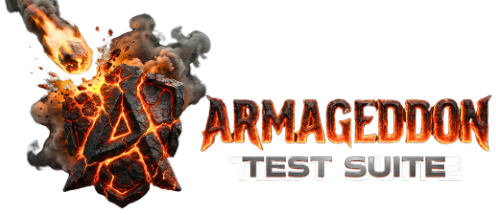
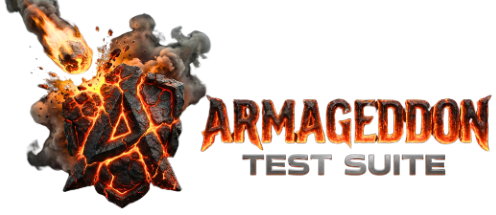
feat(ui): finalize branding with official wordmark and optimize AuthControl accessibility

Changed region(s): [[0.4839, 0.6977, 0.9073, 0.8651]]

diff --git a/armageddon-site/public/sw.js b/armageddon-site/public/sw.js
@@ -1,1 +1,1 @@
-if(!self.define){let e,s={};const n=(n,i)=>(n=new URL(n+".js",i).href,s[n]||new Promise(s=>{if("document"in self){const e=document.createElement("script");e.src=n,e.onload=s,document.head.appendChild(e)}else e=n,importScripts(n),s()}).then(()=>{let e=s[n];if(!e)throw new Error(`Module ${n} didn’t register its module`);return e}));self.define=(i,a)=>{const c=e||("document"in self?document.currentScript.src:"")||location.href;if(s[c])return;let t={};const r=e=>n(e,c),o={module:{uri:c},exports:t,require:r};s[c]=Promise.all(i.map(e=>o[e]||r(e))).then(e=>(a(...e),t))}}define(["./workbox-f1770938"],function(e){"use strict";importScripts(),self.skipWaiting(),e.clientsClaim(),e.precacheAndRoute([{url:"/_next/static/chunks/468-1093ee68c804e9a2.js",revision:"iIPbDOxHYnkIkARJOjg1s"},{url:"/_next/static/chunks/607-af260525c14c94bb.js",revision:"iIPbDOxHYnkIkARJOjg1s"},{url:"/_next/static/chunks/79-bf20568888924bf1.js",revision:"iIPbDOxHYnkIkARJOjg1s"},{url:"/_next/static/chunks/802-c239888456027ff5.js",revision:"iIPbDOxHYnkIkARJOjg1s"},{url:"/_next/static/chunks/app/_not-found-9ae73e608a28f3b2.js",revision:"iIPbDOxHYnkIkARJOjg1s"},{url:"/_next/static/chunks/app/console/page-cd3f7c2b288cdf17.js",revision:"iIPbDOxHYnkIkARJOjg1s"},{url:"/_next/static/chunks/app/layout-cc2440a220522658.js",revision:"iIPbDOxHYnkIkARJOjg1s"},{url:"/_next/static/chunks/app/page-a32ca8522c91464f.js",revision:"iIPbDOxHYnkIkARJOjg1s"},{url:"/_next/static/chunks/fd9d1056-803f3afc98c64581.js",revision:"iIPbDOxHYnkIkARJOjg1s"},{url:"/_next/static/chunks/framework-f66176bb897dc684.js",revision:"iIPbDOxHYnkIkARJOjg1s"},{url:"/_next/static/chunks/main-55a42e05993252c3.js",revision:"iIPbDOxHYnkIkARJOjg1s"},{url:"/_next/static/chunks/main-app-c3f7e2f235ccc355.js",revision:"iIPbDOxHYnkIkARJOjg1s"},{url:"/_next/static/chunks/pages/_app-75f6107b0260711c.js",revision:"iIPbDOxHYnkIkARJOjg1s"},{url:"/_next/static/chunks/pages/_error-9a890acb1e81c3fc.js",revision:"iIPbDOxHYnkIkARJOjg1s"},{url:"/_next/static/chunks/polyfills-c67a75d1b6f99dc8.js",revision:"837c0df77fd5009c9e46d446188ecfd0"},{url:"/_next/static/chunks/webpack-91511bd01274c943.js",revision:"iIPbDOxHYnkIkARJOjg1s"},{url:"/_next/static/css/4d603ba590fb2e9f.css",revision:"4d603ba590fb2e9f"},{url:"/_next/static/iIPbDOxHYnkIkARJOjg1s/_buildManifest.js",revision:"e0a21c7d7f93d89dce16df0231dc76f2"},{url:"/_next/static/iIPbDOxHYnkIkARJOjg1s/_ssgManifest.js",revision:"b6652df95db52feb4daf4eca35380933"},{url:"/favicon.ico",revision:"b4409a107e8890df94dce12561b21297"},{url:"/icon.png",revision:"df6d3ea9eb0e6877f3e2e07aeceaea7d"},{url:"/icon.svg",revision:"be9128610a71847a98398bbc286ede11"},{url:"/icons/icon-192.png",revision:"c96dc5f246388fefb0ffdfc324d1bcd0"},{url:"/icons/icon-512.png",revision:"df6d3ea9eb0e6877f3e2e07aeceaea7d"},{url:"/icons/icon-maskable-192.png",revision:"2b7fcf20e0830e7a1c0af565077b385d"},{url:"/icons/icon-maskable-512.png",revision:"2b7fcf20e0830e7a1c0af565077b385d"},{url:"/magma-texture.png",revision:"ebe6b25bf0c3ae6ae88e06984f921b9f"},{url:"/seal.png",revision:"2b7fcf20e0830e7a1c0af565077b385d"},{url:"/swe-worker-5c72df51bb1f6ee0.js",revision:"5a47d90db13bb1309b25bdf7b363570e"},{url:"/wordmark.png",revision:"c65400f694959835e0e2fa167f449cc2"}],{ignoreURLParametersMatching:[/^utm_/,/^fbclid$/]}),e.cleanupOutdatedCaches(),e.registerRoute("/",new e.NetworkFirst({cacheName:"start-url",plugins:[{cacheWillUpdate:async({response:e})=>e&&"opaqueredirect"===e.type?new Response(e.body,{status:200,statusText:"OK",headers:e.headers}):e}]}),"GET"),e.registerRoute(/^https:\/\/fonts\.(?:gstatic)\.com\/.*/i,new e.CacheFirst({cacheName:"google-fonts-webfonts",plugins:[new e.ExpirationPlugin({maxEntries:4,maxAgeSeconds:31536e3})]}),"GET"),e.registerRoute(/^https:\/\/fonts\.(?:googleapis)\.com\/.*/i,new e.StaleWhileRevalidate({cacheName:"google-fonts-stylesheets",plugins:[new e.ExpirationPlugin({maxEntries:4,maxAgeSeconds:604800})]}),"GET"),e.registerRoute(/\.(?:eot|otf|ttc|ttf|woff|woff2|font.css)$/i,new e.StaleWhileRevalidate({cacheName:"static-font-assets",plugins:[new e.ExpirationPlugin({maxEntries:4,maxAgeSeconds:604800})]}),"GET"),e.registerRoute(/\.(?:jpg|jpeg|gif|png|svg|ico|webp)$/i,new e.StaleWhileRevalidate({cacheName:"static-image-assets",plugins:[new e.ExpirationPlugin({maxEntries:64,maxAgeSeconds:2592e3})]}),"GET"),e.registerRoute(/\/_next\/static.+\.js$/i,new e.CacheFirst({cacheName:"next-static-js-assets",plugins:[new e.ExpirationPlugin({maxEntries:64,maxAgeSeconds:86400})]}),"GET"),e.registerRoute(/\/_next\/image\?url=.+$/i,new e.StaleWhileRevalidate({cacheName:"next-image",plugins:[new e.ExpirationPlugin({maxEntries:64,maxAgeSeconds:86400})]}),"GET"),e.registerRoute(/\.(?:mp3|wav|ogg)$/i,new e.CacheFirst({cacheName:"static-audio-assets",plugins:[new e.RangeRequestsPlugin,new e.ExpirationPlugin({maxEntries:32,maxAgeSeconds:86400})]}),"GET"),e.registerRoute(/\.(?:mp4|webm)$/i,new e.CacheFirst({cacheName:"static-video-assets",plugins:[new e.RangeRequestsPlugin,new e.ExpirationPlugin({maxEntries:32,maxAgeSeconds:86400})]}),"GET"),e.registerRoute(/\.(?:js)$/i,new e.StaleWhileRevalidate({cacheName:"static-js-assets",plugins:[new e.ExpirationPlugin({maxEntries:48,maxAgeSeconds:86400})]}),"GET"),e.registerRoute(/\.(?:css|less)$/i,new e.StaleWhileRevalidate({cacheName:"static-style-assets",plugins:[new e.ExpirationPlugin({maxEntries:32,maxAgeSeconds:86400})]}),"GET"),e.registerRoute(/\/_next\/data\/.+\/.+\.json$/i,new e.StaleWhileRevalidate({cacheName:"next-data",plugins:[new e.ExpirationPlugin({maxEntries:32,maxAgeSeconds:86400})]}),"GET"),e.registerRoute(/\.(?:json|xml|csv)$/i,new e.NetworkFirst({cacheName:"static-data-assets",plugins:[new e.ExpirationPlugin({maxEntries:32,maxAgeSeconds:86400})]}),"GET"),e.registerRoute(({sameOrigin:e,url:{pathname:s}})=>!(!e||s.startsWith("/api/auth/callback")||!s.startsWith("/api/")),new e.NetworkFirst({cacheName:"apis",networkTimeoutSeconds:10,plugins:[new e.ExpirationPlugin({maxEntries:16,maxAgeSeconds:86400})]}),"GET"),e.registerRoute(({request:e,url:{pathname:s},sameOrigin:n})=>"1"===e.headers.get("RSC")&&"1"===e.headers.get("Next-Router-Prefetch")&&n&&!s.startsWith("/api/"),new e.NetworkFirst({cacheName:"pages-rsc-prefetch",plugins:[new e.ExpirationPlugin({maxEntries:32,maxAgeSeconds:86400})]}),"GET"),e.registerRoute(({request:e,url:{pathname:s},sameOrigin:n})=>"1"===e.headers.get("RSC")&&n&&!s.startsWith("/api/"),new e.NetworkFirst({cacheName:"pages-rsc",plugins:[new e.ExpirationPlugin({maxEntries:32,maxAgeSeconds:86400})]}),"GET"),e.registerRoute(({url:{pathname:e},sameOrigin:s})=>s&&!e.startsWith("/api/"),new e.NetworkFirst({cacheName:"pages",plugins:[new e.ExpirationPlugin({maxEntries:32,maxAgeSeconds:86400})]}),"GET"),e.registerRoute(({sameOrigin:e})=>!e,new e.NetworkFirst({cacheName:"cross-origin",networkTimeoutSeconds:10,plugins:[new e.ExpirationPlugin({maxEntries:32,maxAgeSeconds:3600})]}),"GET"),self.__WB_DISABLE_DEV_LOGS=!0});
+if(!self.define){let e,s={};const n=(n,a)=>(n=new URL(n+".js",a).href,s[n]||new Promise(s=>{if("document"in self){const e=document.createElement("script");e.src=n,e.onload=s,document.head.appendChild(e)}else e=n,importScripts(n),s()}).then(()=>{let e=s[n];if(!e)throw new Error(`Module ${n} didn’t register its module`);return e}));self.define=(a,i)=>{const c=e||("document"in self?document.currentScript.src:"")||location.href;if(s[c])return;let t={};const r=e=>n(e,c),o={module:{uri:c},exports:t,require:r};s[c]=Promise.all(a.map(e=>o[e]||r(e))).then(e=>(i(...e),t))}}define(["./workbox-f1770938"],function(e){"use strict";importScripts(),self.skipWaiting(),e.clientsClaim(),e.precacheAndRoute([{url:"/_next/static/Zw8XC9a27zEnwgjhzDCdZ/_buildManifest.js",revision:"e0a21c7d7f93d89dce16df0231dc76f2"},{url:"/_next/static/Zw8XC9a27zEnwgjhzDCdZ/_ssgManifest.js",revision:"b6652df95db52feb4daf4eca35380933"},{url:"/_next/static/chunks/468-1093ee68c804e9a2.js",revision:"Zw8XC9a27zEnwgjhzDCdZ"},{url:"/_next/static/chunks/607-af260525c14c94bb.js",revision:"Zw8XC9a27zEnwgjhzDCdZ"},{url:"/_next/static/chunks/79-bd410ce2e87ac35e.js",revision:"Zw8XC9a27zEnwgjhzDCdZ"},{url:"/_next/static/chunks/802-c239888456027ff5.js",revision:"Zw8XC9a27zEnwgjhzDCdZ"},{url:"/_next/static/chunks/app/_not-found-9ae73e608a28f3b2.js",revision:"Zw8XC9a27zEnwgjhzDCdZ"},{url:"/_next/static/chunks/app/console/page-cd3f7c2b288cdf17.js",revision:"Zw8XC9a27zEnwgjhzDCdZ"},{url:"/_next/static/chunks/app/layout-264061c2097bbcc7.js",revision:"Zw8XC9a27zEnwgjhzDCdZ"},{url:"/_next/static/chunks/app/page-a32ca8522c91464f.js",revision:"Zw8XC9a27zEnwgjhzDCdZ"},{url:"/_next/static/chunks/fd9d1056-803f3afc98c64581.js",revision:"Zw8XC9a27zEnwgjhzDCdZ"},{url:"/_next/static/chunks/framework-f66176bb897dc684.js",revision:"Zw8XC9a27zEnwgjhzDCdZ"},{url:"/_next/static/chunks/main-55a42e05993252c3.js",revision:"Zw8XC9a27zEnwgjhzDCdZ"},{url:"/_next/static/chunks/main-app-c3f7e2f235ccc355.js",revision:"Zw8XC9a27zEnwgjhzDCdZ"},{url:"/_next/static/chunks/pages/_app-75f6107b0260711c.js",revision:"Zw8XC9a27zEnwgjhzDCdZ"},{url:"/_next/static/chunks/pages/_error-9a890acb1e81c3fc.js",revision:"Zw8XC9a27zEnwgjhzDCdZ"},{url:"/_next/static/chunks/polyfills-c67a75d1b6f99dc8.js",revision:"837c0df77fd5009c9e46d446188ecfd0"},{url:"/_next/static/chunks/webpack-d9e423c1b5b45cb3.js",revision:"Zw8XC9a27zEnwgjhzDCdZ"},{url:"/_next/static/css/04235e27b1af03aa.css",revision:"04235e27b1af03aa"},{url:"/favicon.ico",revision:"b4409a107e8890df94dce12561b21297"},{url:"/icon.png",revision:"df6d3ea9eb0e6877f3e2e07aeceaea7d"},{url:"/icons/icon-192.png",revision:"c96dc5f246388fefb0ffdfc324d1bcd0"},{url:"/icons/icon-512.png",revision:"df6d3ea9eb0e6877f3e2e07aeceaea7d"},{url:"/icons/icon-maskable-192.png",revision:"2b7fcf20e0830e7a1c0af565077b385d"},{url:"/icons/icon-maskable-512.png",revision:"2b7fcf20e0830e7a1c0af565077b385d"},{url:"/magma-texture.png",revision:"ebe6b25bf0c3ae6ae88e06984f921b9f"},{url:"/seal.png",revision:"2b7fcf20e0830e7a1c0af565077b385d"},{url:"/swe-worker-5c72df51bb1f6ee0.js",revision:"5a47d90db13bb1309b25bdf7b363570e"},{url:"/wordmark.png",revision:"452da55eb88268a48ef001d7497e1cb5"}],{ignoreURLParametersMatching:[/^utm_/,/^fbclid$/]}),e.cleanupOutdatedCaches(),e.registerRoute("/",new e.NetworkFirst({cacheName:"start-url",plugins:[{cacheWillUpdate:async({response:e})=>e&&"opaqueredirect"===e.type?new Response(e.body,{status:200,statusText:"OK",headers:e.headers}):e}]}),"GET"),e.registerRoute(/^https:\/\/fonts\.(?:gstatic)\.com\/.*/i,new e.CacheFirst({cacheName:"google-fonts-webfonts",plugins:[new e.ExpirationPlugin({maxEntries:4,maxAgeSeconds:31536e3})]}),"GET"),e.registerRoute(/^https:\/\/fonts\.(?:googleapis)\.com\/.*/i,new e.StaleWhileRevalidate({cacheName:"google-fonts-stylesheets",plugins:[new e.ExpirationPlugin({maxEntries:4,maxAgeSeconds:604800})]}),"GET"),e.registerRoute(/\.(?:eot|otf|ttc|ttf|woff|woff2|font.css)$/i,new e.StaleWhileRevalidate({cacheName:"static-font-assets",plugins:[new e.ExpirationPlugin({maxEntries:4,maxAgeSeconds:604800})]}),"GET"),e.registerRoute(/\.(?:jpg|jpeg|gif|png|svg|ico|webp)$/i,new e.StaleWhileRevalidate({cacheName:"static-image-assets",plugins:[new e.ExpirationPlugin({maxEntries:64,maxAgeSeconds:2592e3})]}),"GET"),e.registerRoute(/\/_next\/static.+\.js$/i,new e.CacheFirst({cacheName:"next-static-js-assets",plugins:[new e.ExpirationPlugin({maxEntries:64,maxAgeSeconds:86400})]}),"GET"),e.registerRoute(/\/_next\/image\?url=.+$/i,new e.StaleWhileRevalidate({cacheName:"next-image",plugins:[new e.ExpirationPlugin({maxEntries:64,maxAgeSeconds:86400})]}),"GET"),e.registerRoute(/\.(?:mp3|wav|ogg)$/i,new e.CacheFirst({cacheName:"static-audio-assets",plugins:[new e.RangeRequestsPlugin,new e.ExpirationPlugin({maxEntries:32,maxAgeSeconds:86400})]}),"GET"),e.registerRoute(/\.(?:mp4|webm)$/i,new e.CacheFirst({cacheName:"static-video-assets",plugins:[new e.RangeRequestsPlugin,new e.ExpirationPlugin({maxEntries:32,maxAgeSeconds:86400})]}),"GET"),e.registerRoute(/\.(?:js)$/i,new e.StaleWhileRevalidate({cacheName:"static-js-assets",plugins:[new e.ExpirationPlugin({maxEntries:48,maxAgeSeconds:86400})]}),"GET"),e.registerRoute(/\.(?:css|less)$/i,new e.StaleWhileRevalidate({cacheName:"static-style-assets",plugins:[new e.ExpirationPlugin({maxEntries:32,maxAgeSeconds:86400})]}),"GET"),e.registerRoute(/\/_next\/data\/.+\/.+\.json$/i,new e.StaleWhileRevalidate({cacheName:"next-data",plugins:[new e.ExpirationPlugin({maxEntries:32,maxAgeSeconds:86400})]}),"GET"),e.registerRoute(/\.(?:json|xml|csv)$/i,new e.NetworkFirst({cacheName:"static-data-assets",plugins:[new e.ExpirationPlugin({maxEntries:32,maxAgeSeconds:86400})]}),"GET"),e.registerRoute(({sameOrigin:e,url:{pathname:s}})=>!(!e||s.startsWith("/api/auth/callback")||!s.startsWith("/api/")),new e.NetworkFirst({cacheName:"apis",networkTimeoutSeconds:10,plugins:[new e.ExpirationPlugin({maxEntries:16,maxAgeSeconds:86400})]}),"GET"),e.registerRoute(({request:e,url:{pathname:s},sameOrigin:n})=>"1"===e.headers.get("RSC")&&"1"===e.headers.get("Next-Router-Prefetch")&&n&&!s.startsWith("/api/"),new e.NetworkFirst({cacheName:"pages-rsc-prefetch",plugins:[new e.ExpirationPlugin({maxEntries:32,maxAgeSeconds:86400})]}),"GET"),e.registerRoute(({request:e,url:{pathname:s},sameOrigin:n})=>"1"===e.headers.get("RSC")&&n&&!s.startsWith("/api/"),new e.NetworkFirst({cacheName:"pages-rsc",plugins:[new e.ExpirationPlugin({maxEntries:32,maxAgeSeconds:86400})]}),"GET"),e.registerRoute(({url:{pathname:e},sameOrigin:s})=>s&&!e.startsWith("/api/"),new e.NetworkFirst({cacheName:"pages",plugins:[new e.ExpirationPlugin({maxEntries:32,maxAgeSeconds:86400})]}),"GET"),e.registerRoute(({sameOrigin:e})=>!e,new e.NetworkFirst({cacheName:"cross-origin",networkTimeoutSeconds:10,plugins:[new e.ExpirationPlugin({maxEntries:32,maxAgeSeconds:3600})]}),"GET"),self.__WB_DISABLE_DEV_LOGS=!0});

diff --git a/armageddon-site/src/components/AuthControl.tsx b/armageddon-site/src/components/AuthControl.tsx
@@ -1,6 +1,5 @@
 'use client';
 
-import { useState } from 'react';
 import { motion, AnimatePresence } from 'framer-motion';
 import { User } from '@supabase/supabase-js';
 
@@ -11,7 +10,6 @@ interface AuthControlProps {
 }
 
 export default function AuthControl({ user, onLogin, onLogout }: Readonly<AuthControlProps>) {
-    const [isHovered, setIsHovered] = useState(false);
     const isLoggedIn = !!user;
 
     const toggleAuth = () => {
@@ -20,27 +18,7 @@ export default function AuthControl({ user, onLogin, onLogout }: Readonly<AuthCo
     };
 
     return (
-        <div
-            className="fixed top-6 right-6 z-50 flex items-center gap-4"
-            onMouseEnter={() => setIsHovered(true)}
-            onMouseLeave={() => setIsHovered(false)}
-            role="group"
-            aria-label="User Authentication"
-        >
-            <AnimatePresence>
-                {isLoggedIn && (
-                    <motion.div
-                        initial={{ opacity: 0, x: 20 }}
-                        animate={{ opacity: 1, x: 0 }}
-                        exit={{ opacity: 0, x: 20 }}
-                        className="mono-small text-signal/40 text-xs text-right hidden md:block"
-                    >
-                        <div>ID: {user?.email?.split('@')[0].toUpperCase() ?? 'OPERATOR'}</div>
-                        <div className="text-[var(--safe)]">CLEARANCE: LEVEL 7</div>
-                    </motion.div>
-                )}
-            </AnimatePresence>
-
+        <div className="fixed top-6 left-6 z-50 flex items-center gap-4">
             <motion.button
                 onClick={toggleAuth}
                 className={`
@@ -65,6 +43,20 @@ export default function AuthControl({ user, onLogin, onLogout }: Readonly<AuthCo
                     </span>
                 </div>
             </motion.button>
+
+            <AnimatePresence>
+                {isLoggedIn && (
+                    <motion.div
+                        initial={{ opacity: 0, x: -20 }}
+                        animate={{ opacity: 1, x: 0 }}
+                        exit={{ opacity: 0, x: -20 }}
+                        className="mono-small text-signal/40 text-xs text-left hidden md:block"
+                    >
+                        <div>ID: {user?.email?.split('@')[0].toUpperCase() ?? 'OPERATOR'}</div>
+                        <div className="text-[var(--safe)]">CLEARANCE: LEVEL 7</div>
+                    </motion.div>
+                )}
+            </AnimatePresence>
         </div>
     );
 }

diff --git a/armageddon-site/src/components/DestructionConsole.tsx b/armageddon-site/src/components/DestructionConsole.tsx
@@ -362,7 +362,7 @@ export default function DestructionConsole({ standalone = false, onStatusChange,
                     transition={{ duration: 0.8, ease: [0.25, 0.8, 0.25, 1] }}
                 >
                     <div className="flex justify-center mb-8 relative z-20">
-                        <img src="/icon.svg" alt="ARMAGEDDON LEVEL 7" className="w-auto h-48 drop-shadow-[0_0_25px_rgba(255,80,0,0.4)] animate-pulse-slow" />
+                        <img src="/wordmark.png" alt="ARMAGEDDON LEVEL 7" className="w-full max-w-3xl h-auto object-contain drop-shadow-[0_0_25px_rgba(255,80,0,0.4)] animate-pulse-slow" />
                     </div>
 
                     <div className="mt-8 mb-6 relative">

diff --git a/frontend-design.md b/frontend-design.md
@@ -1,0 +1,42 @@
+---
+name: frontend-design
+description: Create distinctive, production-grade frontend interfaces with high design quality. Use this skill when the user asks to build web components, pages, or applications. Generates creative, polished code that avoids generic AI aesthetics.
+license: Complete terms in LICENSE.txt
+---
+
+This skill guides creation of distinctive, production-grade frontend interfaces that avoid generic "AI slop" aesthetics. Implement real working code with exceptional attention to aesthetic details and creative choices.
+
+The user provides frontend requirements: a component, page, application, or interface to build. They may include context about the purpose, audience, or technical constraints.
+
+## Design Thinking
+
+Before coding, understand the context and commit to a BOLD aesthetic direction:
+- **Purpose**: What problem does this interface solve? Who uses it?
+- **Tone**: Pick an extreme: brutally minimal, maximalist chaos, retro-futuristic, organic/natural, luxury/refined, playful/toy-like, editorial/magazine, brutalist/raw, art deco/geometric, soft/pastel, industrial/utilitarian, etc. There are so many flavors to choose from. Use these for inspiration but design one that is true to the aesthetic direction.
+- **Constraints**: Technical requirements (framework, performance, accessibility).
+- **Differentiation**: What makes this UNFORGETTABLE? What's the one thing someone will remember?
+
+**CRITICAL**: Choose a clear conceptual direction and execute it with precision. Bold maximalism and refined minimalism both work - the key is intentionality, not intensity.
+
+Then implement working code (HTML/CSS/JS, React, Vue, etc.) that is:
+- Production-grade and functional
+- Visually striking and memorable
+- Cohesive with a clear aesthetic point-of-view
+- Meticulously refined in every detail
+
+## Frontend Aesthetics Guidelines
+
+Focus on:
+- **Typography**: Choose fonts that are beautiful, unique, and interesting. Avoid generic fonts like Arial and Inter; opt instead for distinctive choices that elevate the frontend's aesthetics; unexpected, characterful font choices. Pair a distinctive display font with a refined body font.
+- **Color & Theme**: Commit to a cohesive aesthetic. Use CSS variables for consistency. Dominant colors with sharp accents outperform timid, evenly-distributed palettes.
+- **Motion**: Use animations for effects and micro-interactions. Prioritize CSS-only solutions for HTML. Use Motion library for React when available. Focus on high-impact moments: one well-orchestrated page load with staggered reveals (animation-delay) creates more delight than scattered micro-interactions. Use scroll-triggering and hover states that surprise.
+- **Spatial Composition**: Unexpected layouts. Asymmetry. Overlap. Diagonal flow. Grid-breaking elements. Generous negative space OR controlled density.
+- **Backgrounds & Visual Details**: Create atmosphere and depth rather than defaulting to solid colors. Add contextual effects and textures that match the overall aesthetic. Apply creative forms like gradient meshes, noise textures, geometric patterns, layered transparencies, dramatic shadows, decorative borders, custom cursors, and grain overlays.
+
+NEVER use generic AI-generated aesthetics like overused font families (Inter, Roboto, Arial, system fonts), cliched color schemes (particularly purple gradients on white backgrounds), predictable layouts and component patterns, and cookie-cutter design that lacks context-specific character.
+
+Interpret creatively and make unexpected choices that feel genuinely designed for the context. No design should be the same. Vary between light and dark themes, different fonts, different aesthetics. NEVER converge on common choices (Space Grotesk, for example) across generations.
+
+**IMPORTANT**: Match implementation complexity to the aesthetic vision. Maximalist designs need elaborate code with extensive animations and effects. Minimalist or refined designs need restraint, precision, and careful attention to spacing, typography, and subtle details. Elegance comes from executing the vision well.
+
+Remember: Claude is capable of extraordinary creative work. Don't hold back, show what can truly be created when thinking outside the box and committing fully to a distinctive vision.
